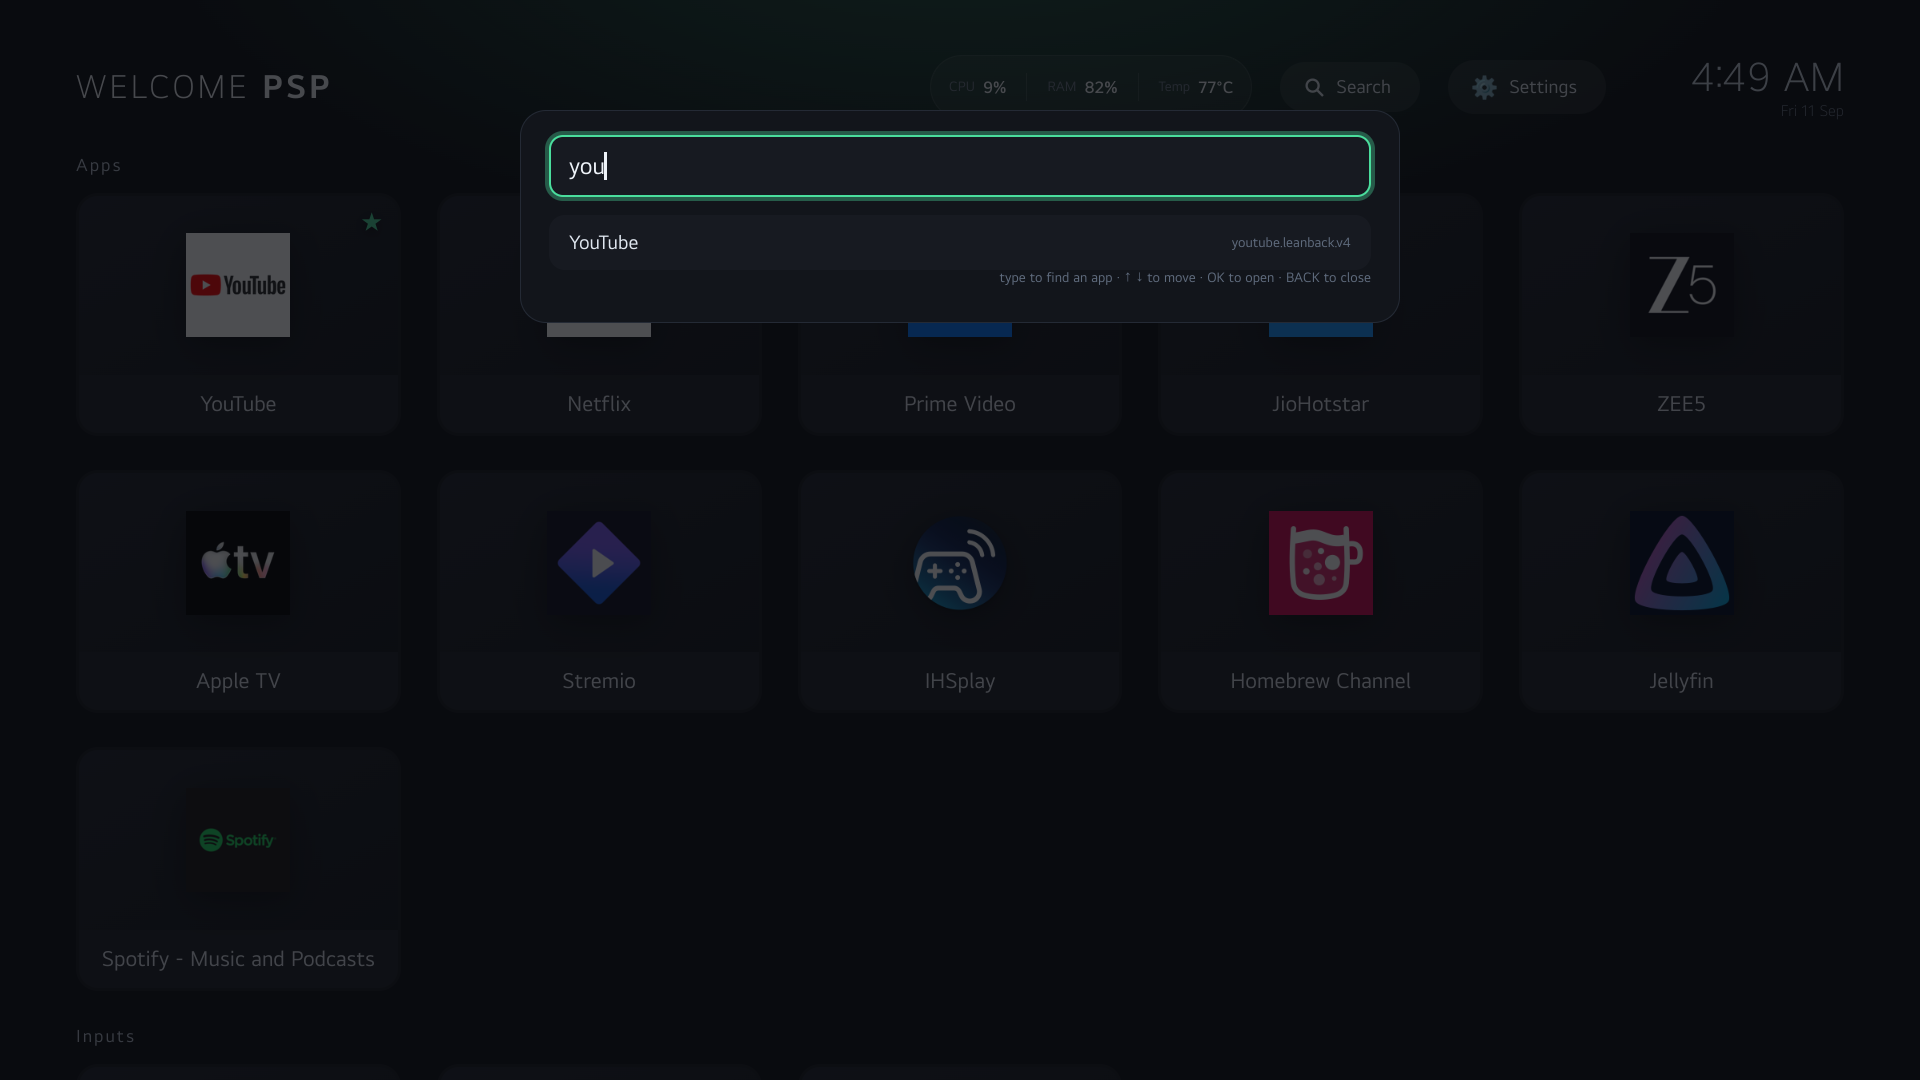
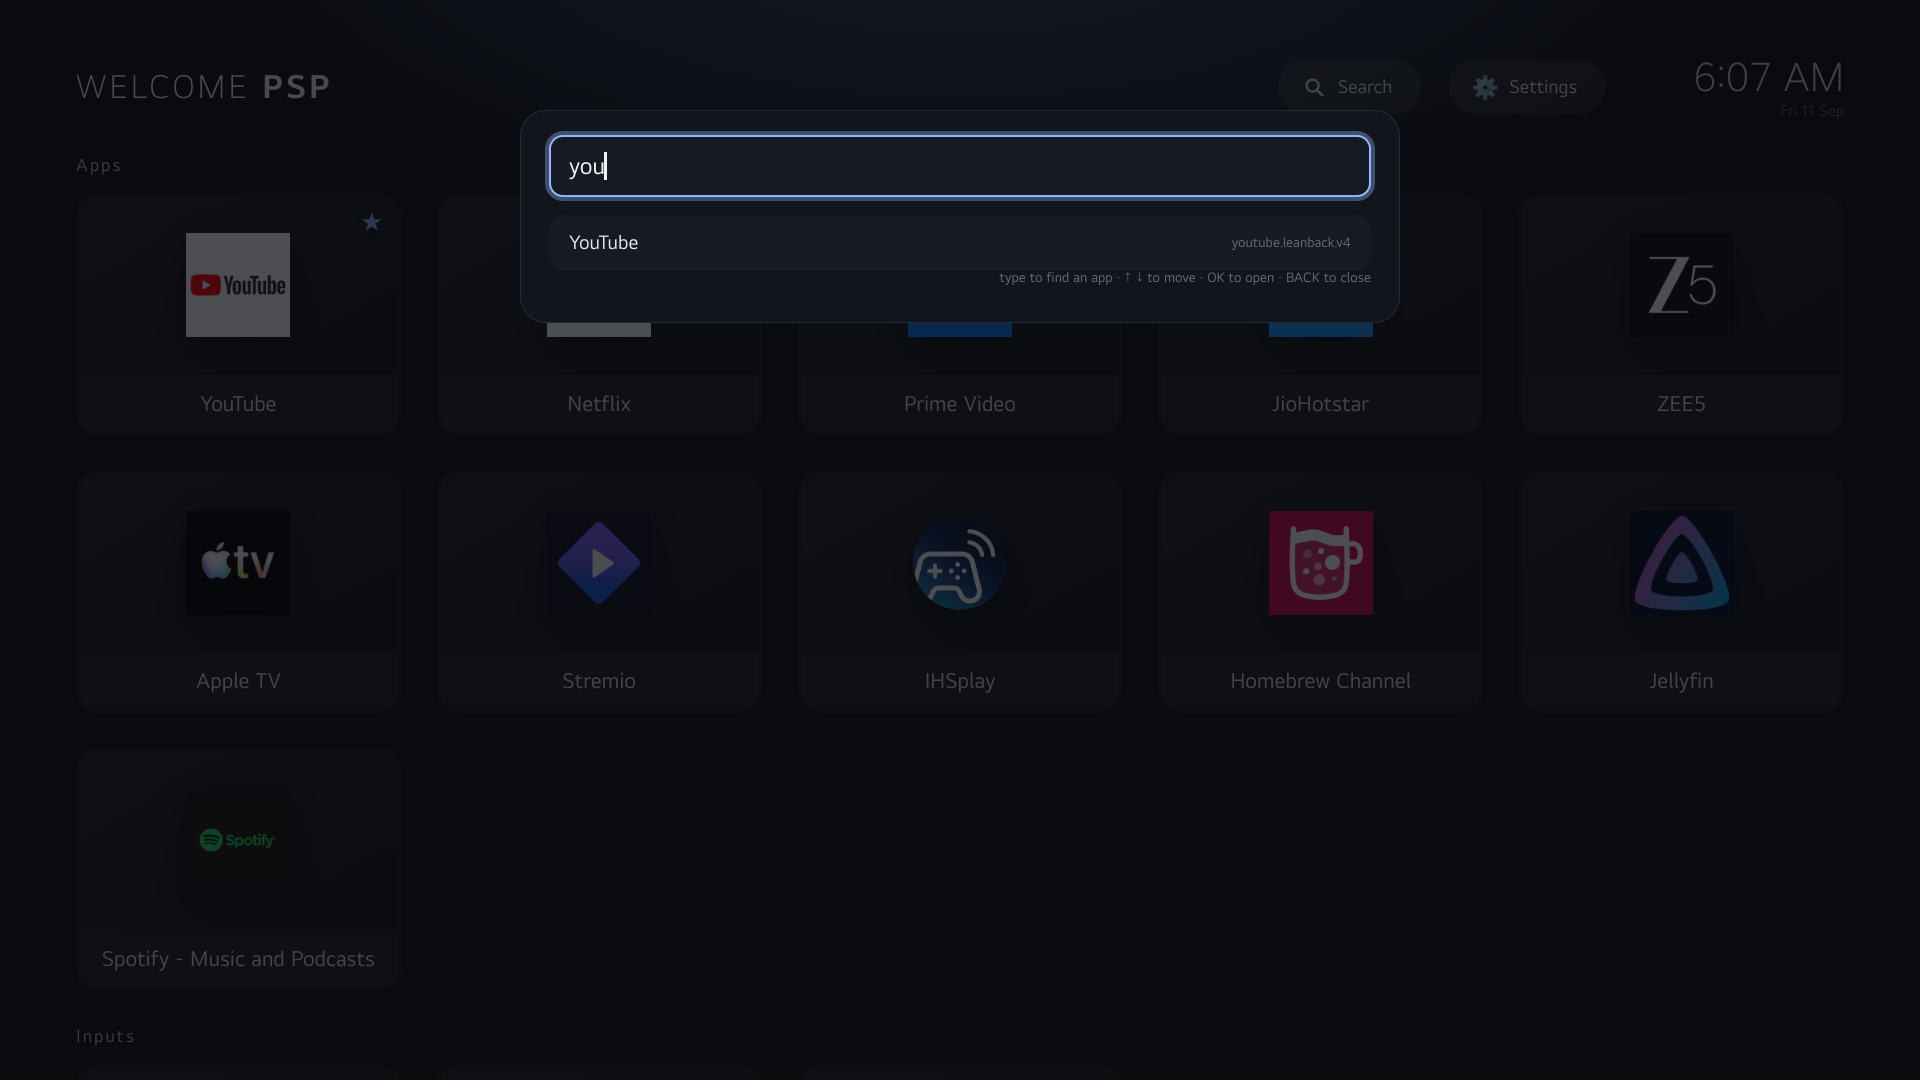
ui: credit line on status panel, consistent header pills
Add a subtle Made by line to the status panel footer. Give the header Search and Settings buttons identical geometry: the font glyph overflows its box while the SVG does not, so both icons now sit in matching 26px boxes for equal pill heights.

Changed region(s): [[0.2812, 0.1222, 0.7188, 0.1833], [0.875, 0.0611, 0.9375, 0.0917]]

diff --git a/launcher-app/index.html b/launcher-app/index.html
@@ -128,6 +128,11 @@ h1 b {
 }
 #settingsBtn .gear,
 #searchBtn .gear {
+  display: inline-flex;
+  align-items: center;
+  justify-content: center;
+  width: 26px;
+  height: 26px;
   font-size: 22px;
 }
 #searchBtn .gear svg {
@@ -378,6 +383,13 @@ h1 b {
   line-height: 1.5;
   text-align: center;
   color: #9fb0c6;
+}
+.made-by {
+  margin-top: 10px;
+  font-size: 13px;
+  letter-spacing: 3px;
+  text-align: center;
+  color: #5f6b7d;
 }
 .brand-panel {
   width: min(720px, 90vw);
@@ -670,6 +682,7 @@ h1 b {
   <div class="panel-head" id="statusTitle">Status</div>
   <div id="statusRows" class="rowset"></div>
   <div class="settings-hint">&#8593; &#8595; Navigate &nbsp; &#183; &nbsp; OK Select &nbsp; &#183; &nbsp; BACK Settings</div>
+  <div class="made-by">Made by Pragalbha Patil</div>
 </div>
 <div id="searchBox" class="search" role="dialog" aria-modal="true" aria-label="Search apps">
   <input id="searchInput" type="text" maxlength="100" autocomplete="off" aria-label="Search apps">

diff --git a/launcher-app/src/index.html b/launcher-app/src/index.html
@@ -72,6 +72,7 @@ __SYS__
   <div class="panel-head" id="statusTitle">Status</div>
   <div id="statusRows" class="rowset"></div>
   <div class="settings-hint">&#8593; &#8595; Navigate &nbsp; &#183; &nbsp; OK Select &nbsp; &#183; &nbsp; BACK Settings</div>
+  <div class="made-by">Made by Pragalbha Patil</div>
 </div>
 <div id="searchBox" class="search" role="dialog" aria-modal="true" aria-label="Search apps">
   <input id="searchInput" type="text" maxlength="100" autocomplete="off" aria-label="Search apps">

diff --git a/launcher-app/src/launcher.css b/launcher-app/src/launcher.css
@@ -121,6 +121,11 @@ h1 b {
 }
 #settingsBtn .gear,
 #searchBtn .gear {
+  display: inline-flex;
+  align-items: center;
+  justify-content: center;
+  width: 26px;
+  height: 26px;
   font-size: 22px;
 }
 #searchBtn .gear svg {
@@ -371,6 +376,13 @@ h1 b {
   line-height: 1.5;
   text-align: center;
   color: #9fb0c6;
+}
+.made-by {
+  margin-top: 10px;
+  font-size: 13px;
+  letter-spacing: 3px;
+  text-align: center;
+  color: #5f6b7d;
 }
 .brand-panel {
   width: min(720px, 90vw);
